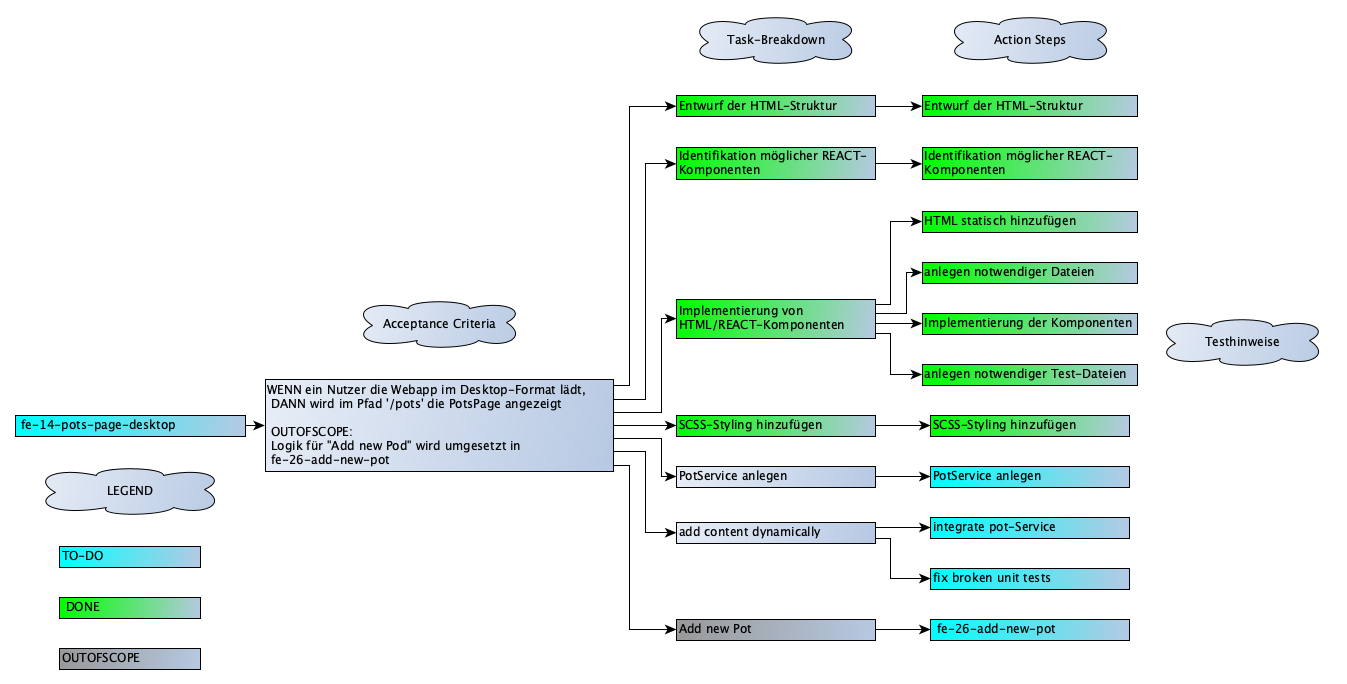
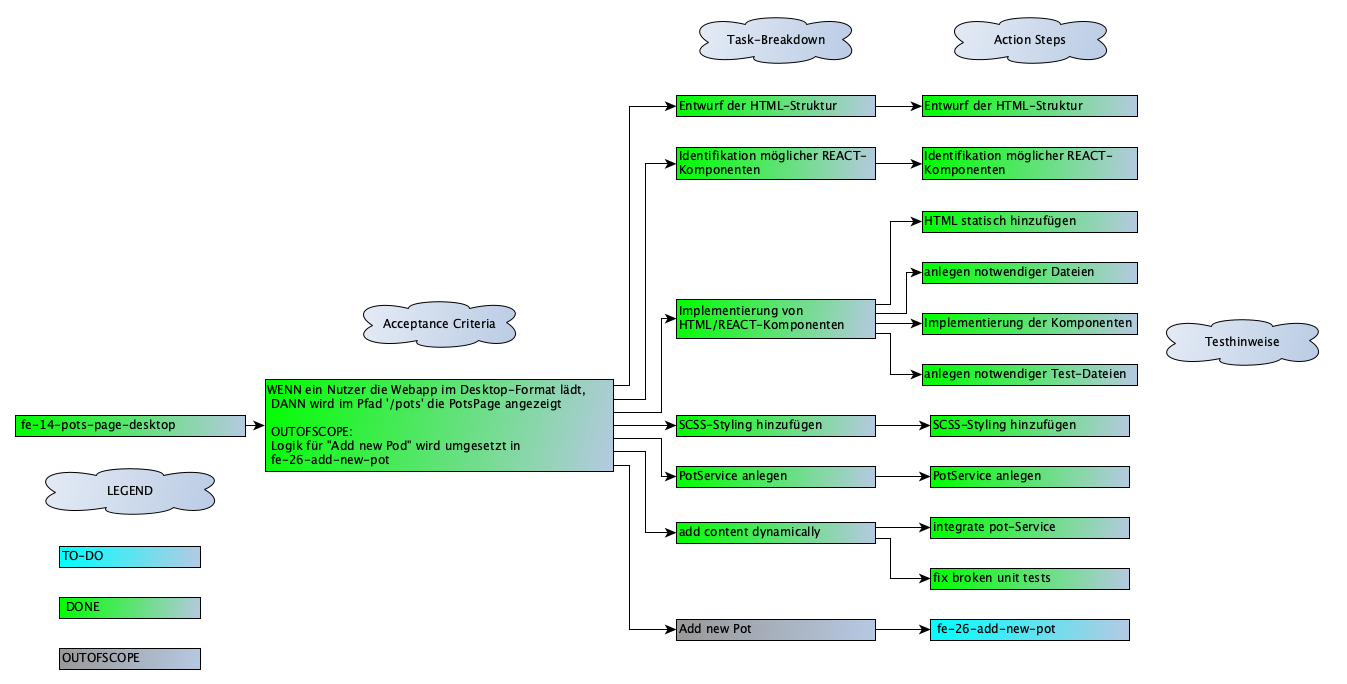
fe-14 add PotService

diff --git a/frontend/src/components/pots/PotCard.spec.tsx b/frontend/src/components/pots/PotCard.spec.tsx
@@ -42,7 +42,7 @@ describe('PotCard', () => {
   it('renders div potCardButtonAdd with correct text', () => {
     const { container } = render(<PotCard {...testProps} />);
 
-    const htmlElement = container.querySelector('.potCardButtonAdd');
+    const htmlElement = container.querySelector('.add');
 
     expect(htmlElement).toBeInTheDocument();
     expect(htmlElement).toHaveTextContent('+ Add Money');
@@ -51,7 +51,7 @@ describe('PotCard', () => {
   it('renders div potCardButtonWithdraw with correct text', () => {
     const { container } = render(<PotCard {...testProps} />);
 
-    const htmlElement = container.querySelector('.potCardButtonWithdraw');
+    const htmlElement = container.querySelector('.withdraw');
 
     expect(htmlElement).toBeInTheDocument();
     expect(htmlElement).toHaveTextContent('Withdraw');

diff --git a/frontend/src/Pages/PotsPage.tsx b/frontend/src/Pages/PotsPage.tsx
@@ -1,18 +1,17 @@
-import data from '../globals/data.json';
 import './PotsPage.scss';
 import { HeaderBar } from '../components/HeaderBar';
 import { EPPot } from '../types/EPPot';
 import { PotCard } from '../components/pots/PotCard';
+import { getPots } from '../globals/services/PotService';
 
 export function PotsPage() {
-  const { pots } = data;
-  const potsTyped: EPPot[] = pots as EPPot[];
+  const pots = getPots();
   return (
     <>
       <div className="potsPage" data-testid="pots-page">
         <HeaderBar h1Headline="Pots" buttonText="+ Add New Pot" />
         <div className="potPageGrid">
-          {potsTyped.map((pot: EPPot, index: number) => (
+          {pots.map((pot: EPPot, index: number) => (
             <PotCard key={index} pot={pot} />
           ))}
         </div>

diff --git a/frontend/src/globals/services/PotService.ts b/frontend/src/globals/services/PotService.ts
@@ -1,0 +1,23 @@
+import data from '../data.json';
+import { fromColorCodeToName } from '../utils/FromColorCodeToName';
+import { APIPotDTO } from '../../types/APIPotDTO';
+import { EPPot } from '../../types/EPPot';
+
+export function getPots(): EPPot[] {
+  const { pots } = data;
+  return fromAPIPotsDTOMapper(pots);
+}
+
+function fromAPIPotsDTOMapper(pots: APIPotDTO[]): EPPot[] {
+  const epPots: EPPot[] = [];
+  pots.forEach((pot: APIPotDTO) => {
+    const newPot: EPPot = {
+      name: pot.name,
+      target: pot.target,
+      total: pot.total,
+      color: fromColorCodeToName(pot.theme),
+    };
+    epPots.push(newPot);
+  });
+  return epPots;
+}

diff --git a/frontend/src/components/pots/PotCard.tsx b/frontend/src/components/pots/PotCard.tsx
@@ -12,11 +12,11 @@ export function PotCard({ pot }: PotCardProps) {
   return (
     <>
       <div className="potCard" data-testid="pot-card">
-        <CardHeader title="Savings" color="dark-green" />
+        <CardHeader title={pot.name} color={pot.color} />
         <PotCardDetails pot={pot} />
         <div className="potCardButtons">
-          <button className="potCardButton">+ Add Money</button>
-          <button className="potCardButton">Withdraw</button>
+          <button className="potCardButton add">+ Add Money</button>
+          <button className="potCardButton withdraw">Withdraw</button>
         </div>
       </div>
     </>

diff --git a/frontend/src/globals/services/PotService.spec.ts b/frontend/src/globals/services/PotService.spec.ts
@@ -1,0 +1,17 @@
+import { ColorNameEnum } from '../../types/ColorNameEnum';
+import { EPPot } from '../../types/EPPot';
+import { getPots } from './PotService';
+
+describe('PotService', () => {
+  const firstEPPot: EPPot = {
+    name: 'Savings',
+    target: 2000,
+    total: 159,
+    color: ColorNameEnum.DARKGREEN,
+  };
+
+  it('maps array APIPotDTO to array EPPot correctly', () => {
+    const pots = getPots();
+    expect(pots.at(0)).toEqual(firstEPPot);
+  });
+});

diff --git a/frontend/src/components/pots/PotCardDetails.tsx b/frontend/src/components/pots/PotCardDetails.tsx
@@ -21,7 +21,7 @@ export function PotCardDetails({ pot }: PotCardDetailsProps) {
         </div>
         <div className="potCardBarMax">
           <div
-            className={`potCardBarCurrent ${pot.theme}`}
+            className={`potCardBarCurrent ${pot.color}`}
             style={
               {
                 '--barCurrentWidthPercent': `${currentPercent}%`,

diff --git a/frontend/src/Pages/PotsPage.scss b/frontend/src/Pages/PotsPage.scss
@@ -7,7 +7,7 @@
 
 .potPageGrid {
   display: grid;
-  grid-template-columns: repeat(auto-fit, (minmax(300px, 1fr)));
+  grid-template-columns: repeat(auto-fit, (minmax(350px, 1fr)));
   column-gap: 24px;
   row-gap: 24px;
 }

diff --git a/frontend/src/fixtures/MockedPots.ts b/frontend/src/fixtures/MockedPots.ts
@@ -5,5 +5,5 @@ export const pot: EPPot = {
   name: 'Savings',
   target: 2000.0,
   total: 159.0,
-  theme: ColorNameEnum.DARKGREEN,
+  color: ColorNameEnum.DARKGREEN,
 };

diff --git a/frontend/src/Types/EPPot.ts b/frontend/src/Types/EPPot.ts
@@ -4,5 +4,5 @@ export interface EPPot {
   name: string;
   target: number;
   total: number;
-  theme: ColorNameEnum;
+  color: ColorNameEnum;
 }

diff --git a/frontend/src/Types/APIPotDTO.ts b/frontend/src/Types/APIPotDTO.ts
@@ -1,0 +1,6 @@
+export interface APIPotDTO {
+  name: string;
+  target: number;
+  total: number;
+  theme: string;
+}
